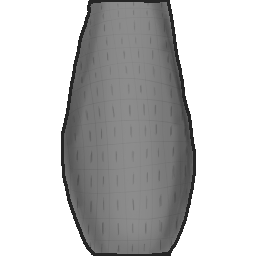
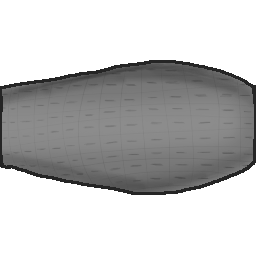
[graphism] Integrate texture.

diff --git a/src/code/local/KreatureContainer.cc b/src/code/local/KreatureContainer.cc
@@ -22,6 +22,7 @@
 #include <gf/Log.h>
 #include <gf/Math.h>
 #include <gf/Shapes.h>
+#include <gf/Sprite.h>
 #include <gf/Transform.h>
 
 #include "Messages.h"
@@ -55,7 +56,12 @@ namespace kkd {
 
   }
 
-  KreatureContainer::KreatureContainer() {
+  KreatureContainer::KreatureContainer()
+  : m_kreatureHeadTexture(gResourceManager().getTexture("kreature_head.png"))
+  , m_kreaturePostLegTexture(gResourceManager().getTexture("kreature_postleg.png"))
+  , m_kreatureAnteLegTexture(gResourceManager().getTexture("kreature_anteleg.png"))
+  , m_kreatureBodyTexture(gResourceManager().getTexture("kreature_body.png"))
+  , m_kreatureTailTexture(gResourceManager().getTexture("kreature_tail.png")) {
     for (int i = 0; i < SpawnLimit; ++i) {
       // Get the initial value
       float x = gRandom().computeUniformFloat(MinBound, MaxBound);
@@ -194,7 +200,11 @@ namespace kkd {
     for (unsigned i = 0; i < m_kreatures.size(); ++i) {
       auto &kreature = m_kreatures[i];
 
-      gf::RectangleShape body({ 100.0f, 50.0f });
+      static constexpr gf::Vector2f BodySpriteSize = { 256.0f, 256.0f };
+      static constexpr gf::Vector2f BodyWorldSize = { 128.0f, 128.0f };
+
+      gf::Sprite body(m_kreatureBodyTexture);
+      body.setScale(BodyWorldSize / BodySpriteSize);
       body.setColor(getKreatureColor(kreature->bodyColor));
       body.setPosition(kreature->position);
       body.setRotation(kreature->orientation);
@@ -203,48 +213,60 @@ namespace kkd {
 
       body.setAnchor(gf::Anchor::Center);
 
-      gf::RectangleShape head({ 25.0f, 25.0f });
+
+      static constexpr gf::Vector2f HeadSpriteSize = { 256.0f, 256.0f };
+      static constexpr gf::Vector2f HeadWorldSize = { 128.0f, 128.0f };
+      // Not work !
+      // static constexpr gf::Vector2f HeadScale = HeadWorldSize / HeadSpriteSize;
+
+      gf::Sprite head(m_kreatureHeadTexture);
+      head.setScale(HeadWorldSize.x / HeadSpriteSize);
       head.setAnchor(gf::Anchor::CenterLeft);
       head.setColor(getKreatureColor(kreature->headColor));
-      head.setPosition(gf::transform(bodyMatrix, {50.0f, 0.0f}));
+      head.setPosition(gf::transform(bodyMatrix, {128.0f, 0.0f}));
       head.setRotation(kreature->orientation);
+      head.draw(target, states);
 
-      gf::RectangleShape armLeft({50.0f, 25.0f});
-      armLeft.setAnchor(gf::Anchor::BottomCenter);
-      armLeft.setColor(getKreatureColor(kreature->limbsColor));
-      armLeft.setPosition(gf::transform(bodyMatrix, {35.0f, -25.0f}));
-      armLeft.setRotation(kreature->orientation);
+      static constexpr gf::Vector2f AnteLegSpriteSize = { 128.0f, 128.0f };
+      static constexpr gf::Vector2f AnteLegWorldSize = { 64.0f, 64.0f };
 
-      gf::RectangleShape armRight({50.0f, 25.0f});
-      armRight.setAnchor(gf::Anchor::TopCenter);
-      armRight.setColor(getKreatureColor(kreature->limbsColor));
-      armRight.setPosition(gf::transform(bodyMatrix, {35.0f, 25.0f}));
-      armRight.setRotation(kreature->orientation);
+      gf::Sprite anteLeg(m_kreatureAnteLegTexture);
+      anteLeg.setScale(AnteLegWorldSize / AnteLegSpriteSize);
+      anteLeg.setAnchor(gf::Anchor::BottomCenter);
+      anteLeg.setColor(getKreatureColor(kreature->limbsColor));
+      anteLeg.setPosition(gf::transform(bodyMatrix, {90.0f, -50.0f}));
+      anteLeg.setRotation(kreature->orientation);
+      anteLeg.draw(target, states);
+      anteLeg.setScale({ AnteLegWorldSize.x / AnteLegSpriteSize.x, -AnteLegWorldSize.y / AnteLegSpriteSize.y });
+      anteLeg.setPosition(gf::transform(bodyMatrix, {90.0f, 50.0f}));
+      anteLeg.draw(target, states);
 
-      gf::RectangleShape legLeft({50.0f, 25.0f});
-      legLeft.setAnchor(gf::Anchor::BottomCenter);
-      legLeft.setColor(getKreatureColor(kreature->limbsColor));
-      legLeft.setPosition(gf::transform(bodyMatrix, {-35.0f, -25.0f}));
-      legLeft.setRotation(kreature->orientation);
+      static constexpr gf::Vector2f PostLegSpriteSize = { 128.0f, 128.0f };
+      static constexpr gf::Vector2f PostLegWorldSize = { 64.0f, 64.0f };
 
-      gf::RectangleShape legRight({50.0f, 25.0f});
-      legRight.setAnchor(gf::Anchor::TopCenter);
-      legRight.setColor(getKreatureColor(kreature->limbsColor));
-      legRight.setPosition(gf::transform(bodyMatrix, {-35.0f, 25.0f}));
-      legRight.setRotation(kreature->orientation);
+      gf::Sprite postLeg(m_kreaturePostLegTexture);
+      postLeg.setScale(PostLegWorldSize / PostLegSpriteSize);
+      postLeg.setAnchor(gf::Anchor::BottomCenter);
+      postLeg.setColor(getKreatureColor(kreature->limbsColor));
+      postLeg.setPosition(gf::transform(bodyMatrix, {-70.0f, -40.0f}));
+      postLeg.setRotation(kreature->orientation);
+      postLeg.draw(target, states);
+      postLeg.setScale({ PostLegWorldSize.x / PostLegSpriteSize.x, -PostLegWorldSize.y / PostLegSpriteSize.y });
+      postLeg.setPosition(gf::transform(bodyMatrix, {-70.0f, 40.0f}));
+      postLeg.draw(target, states);
 
-      gf::RectangleShape tail({75.0f, 25.0f});
+      static constexpr gf::Vector2f TailSpriteSize = { 256.0f, 256.0f };
+      static constexpr gf::Vector2f TailWorldSize = { 128.0f, 128.0f };
+
+      gf::Sprite tail(m_kreatureTailTexture);
+      tail.setScale(TailWorldSize / TailSpriteSize);
       tail.setAnchor(gf::Anchor::CenterRight);
       tail.setColor(getKreatureColor(kreature->tailColor));
-      tail.setPosition(gf::transform(bodyMatrix, {-50.0f, 0.0f}));
+      tail.setPosition(gf::transform(bodyMatrix, {-128.0f, 0.0f}));
       tail.setRotation(kreature->orientation);
-
-      armLeft.draw(target, states);
-      armRight.draw(target, states);
-      legLeft.draw(target, states);
-      legRight.draw(target, states);
       tail.draw(target, states);
-      head.draw(target, states);
+
+      // to print over
       body.draw(target, states);
     }
   }

diff --git a/src/code/local/KreatureContainer.h b/src/code/local/KreatureContainer.h
@@ -113,6 +113,11 @@ namespace kkd {
 
   private:
     std::vector< std::unique_ptr<Kreature> > m_kreatures;
+    gf::Texture& m_kreatureHeadTexture;
+    gf::Texture& m_kreaturePostLegTexture;
+    gf::Texture& m_kreatureAnteLegTexture;
+    gf::Texture& m_kreatureBodyTexture;
+    gf::Texture& m_kreatureTailTexture;
   };
 } /* kkd */
 

diff --git a/src/code/local/Map.cc b/src/code/local/Map.cc
@@ -28,7 +28,7 @@
 namespace kkd {
 
   Map::Map()
-  : m_texture(gResourceManager().getTexture("tileset.png"))
+  : m_texture(gResourceManager().getTexture("map.png"))
   , m_layer({ Size, Size })
   {
     m_layer.setTexture(m_texture);
